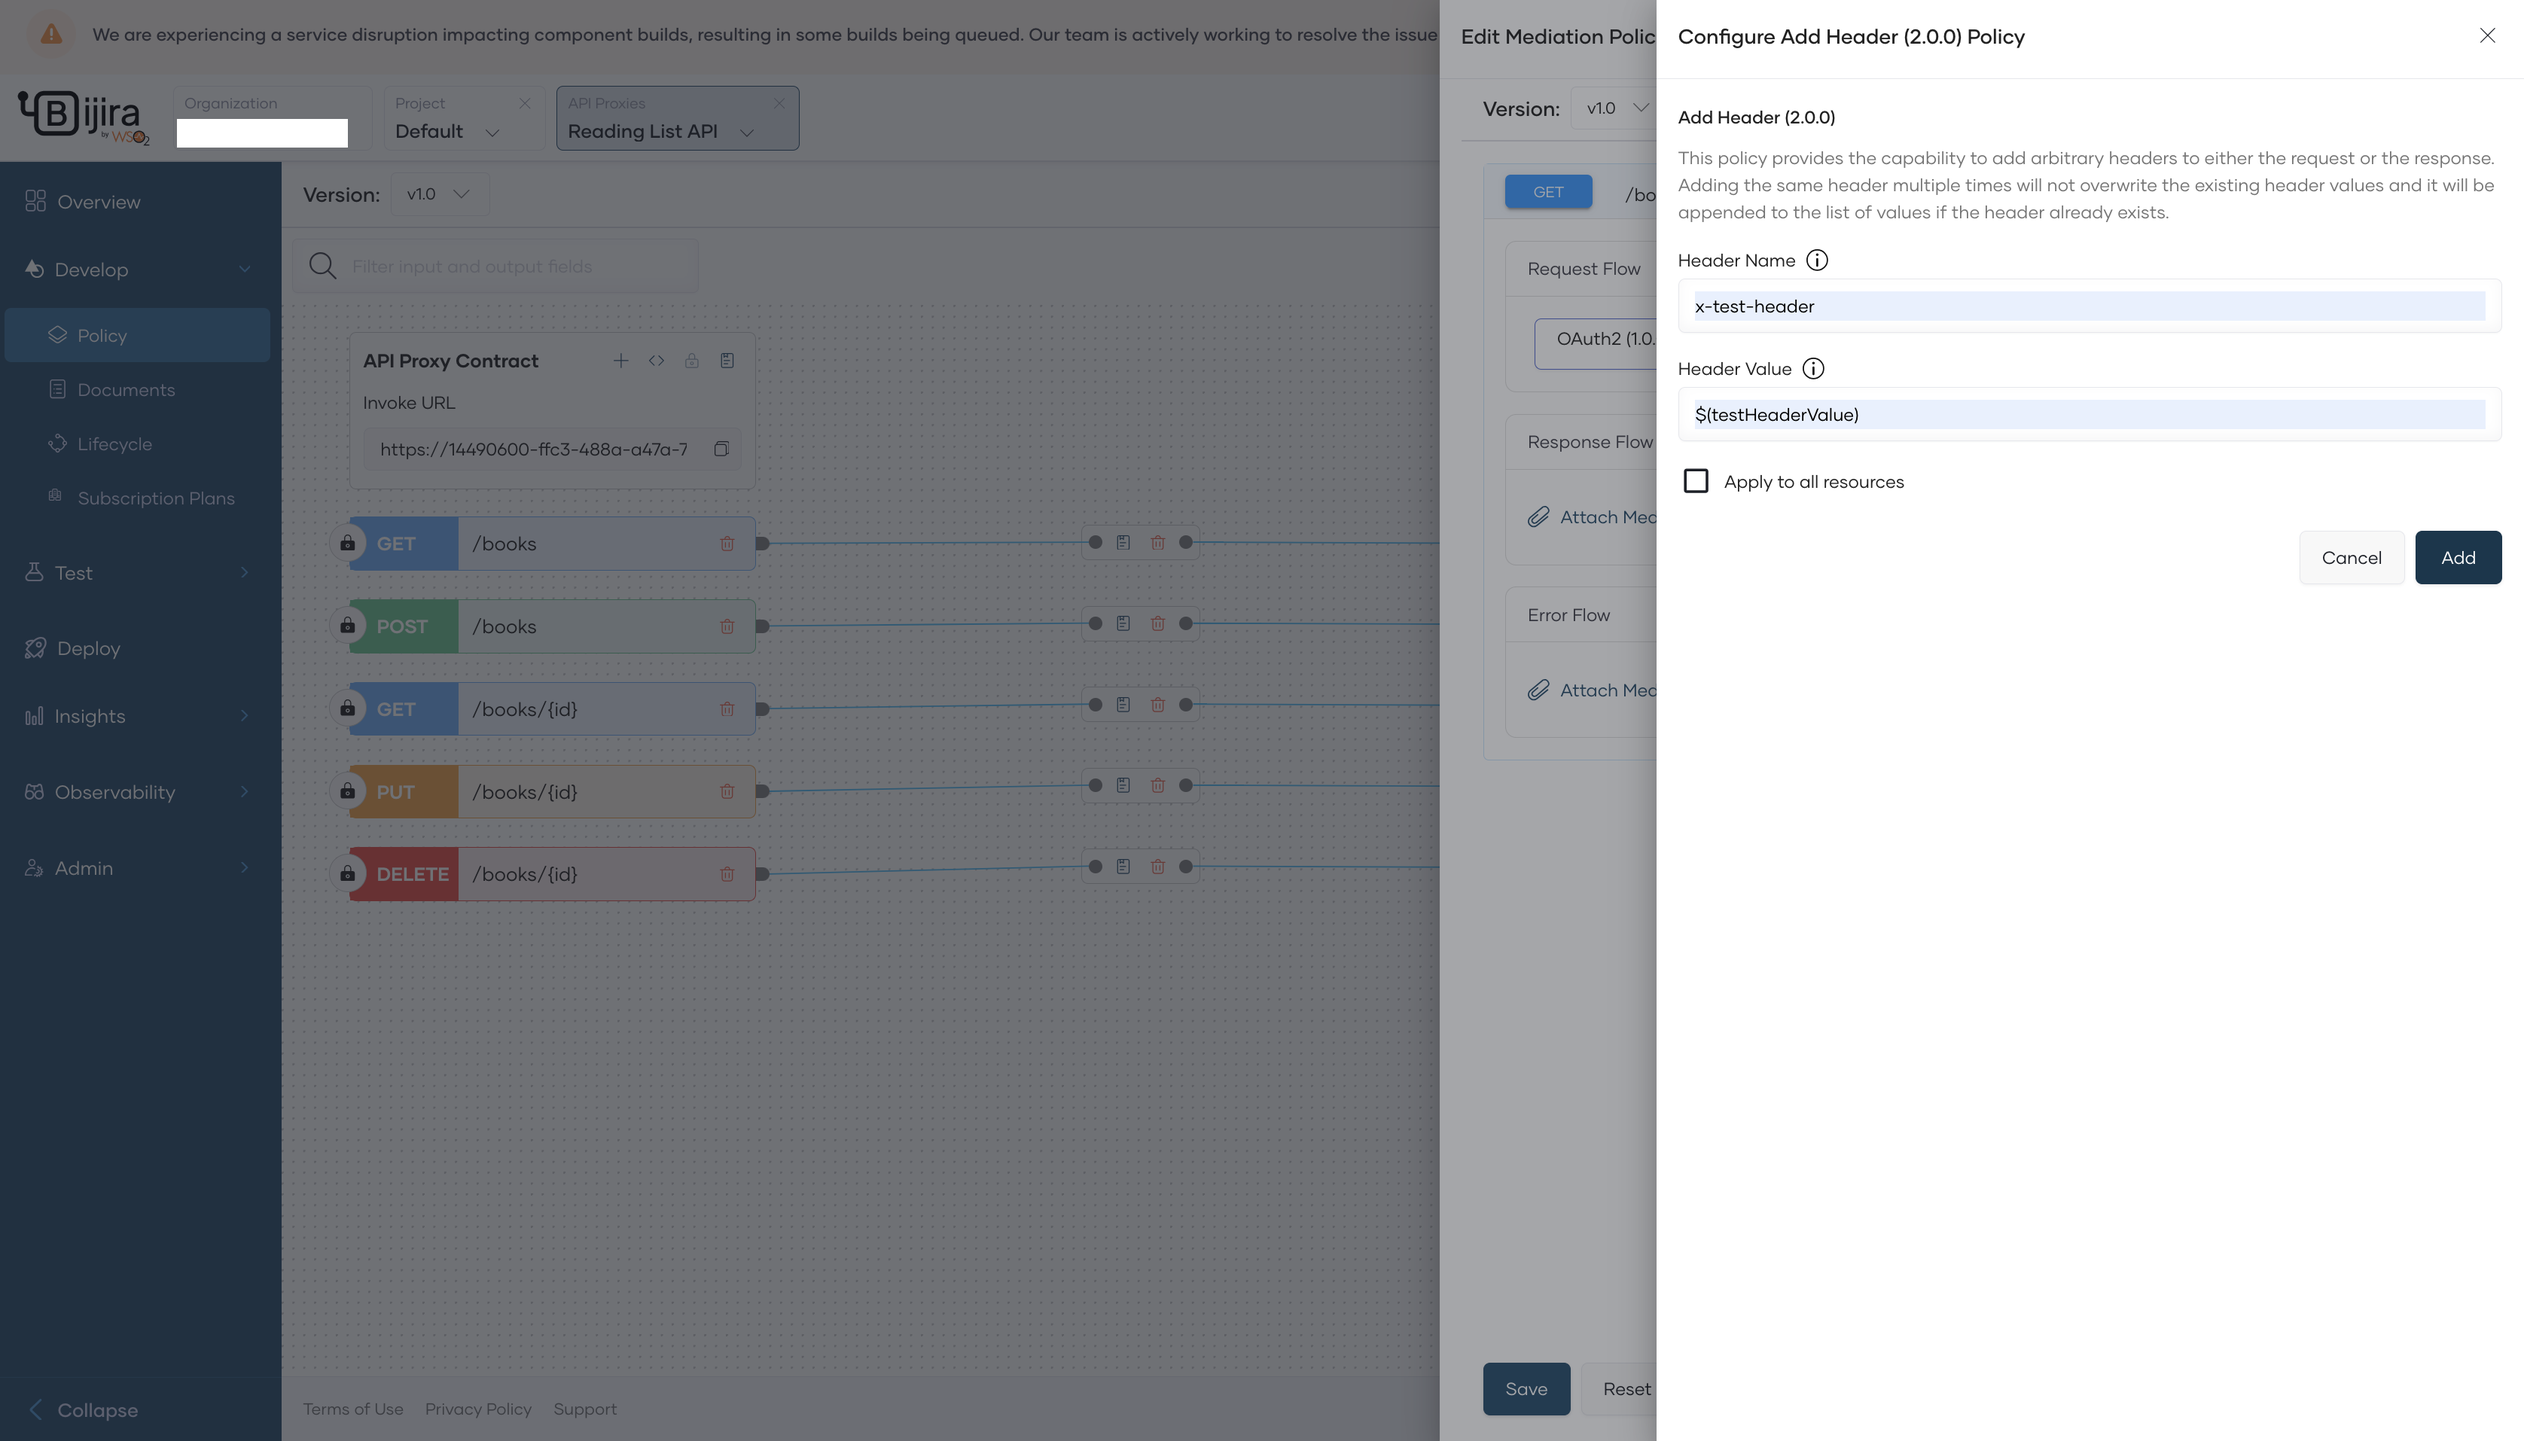
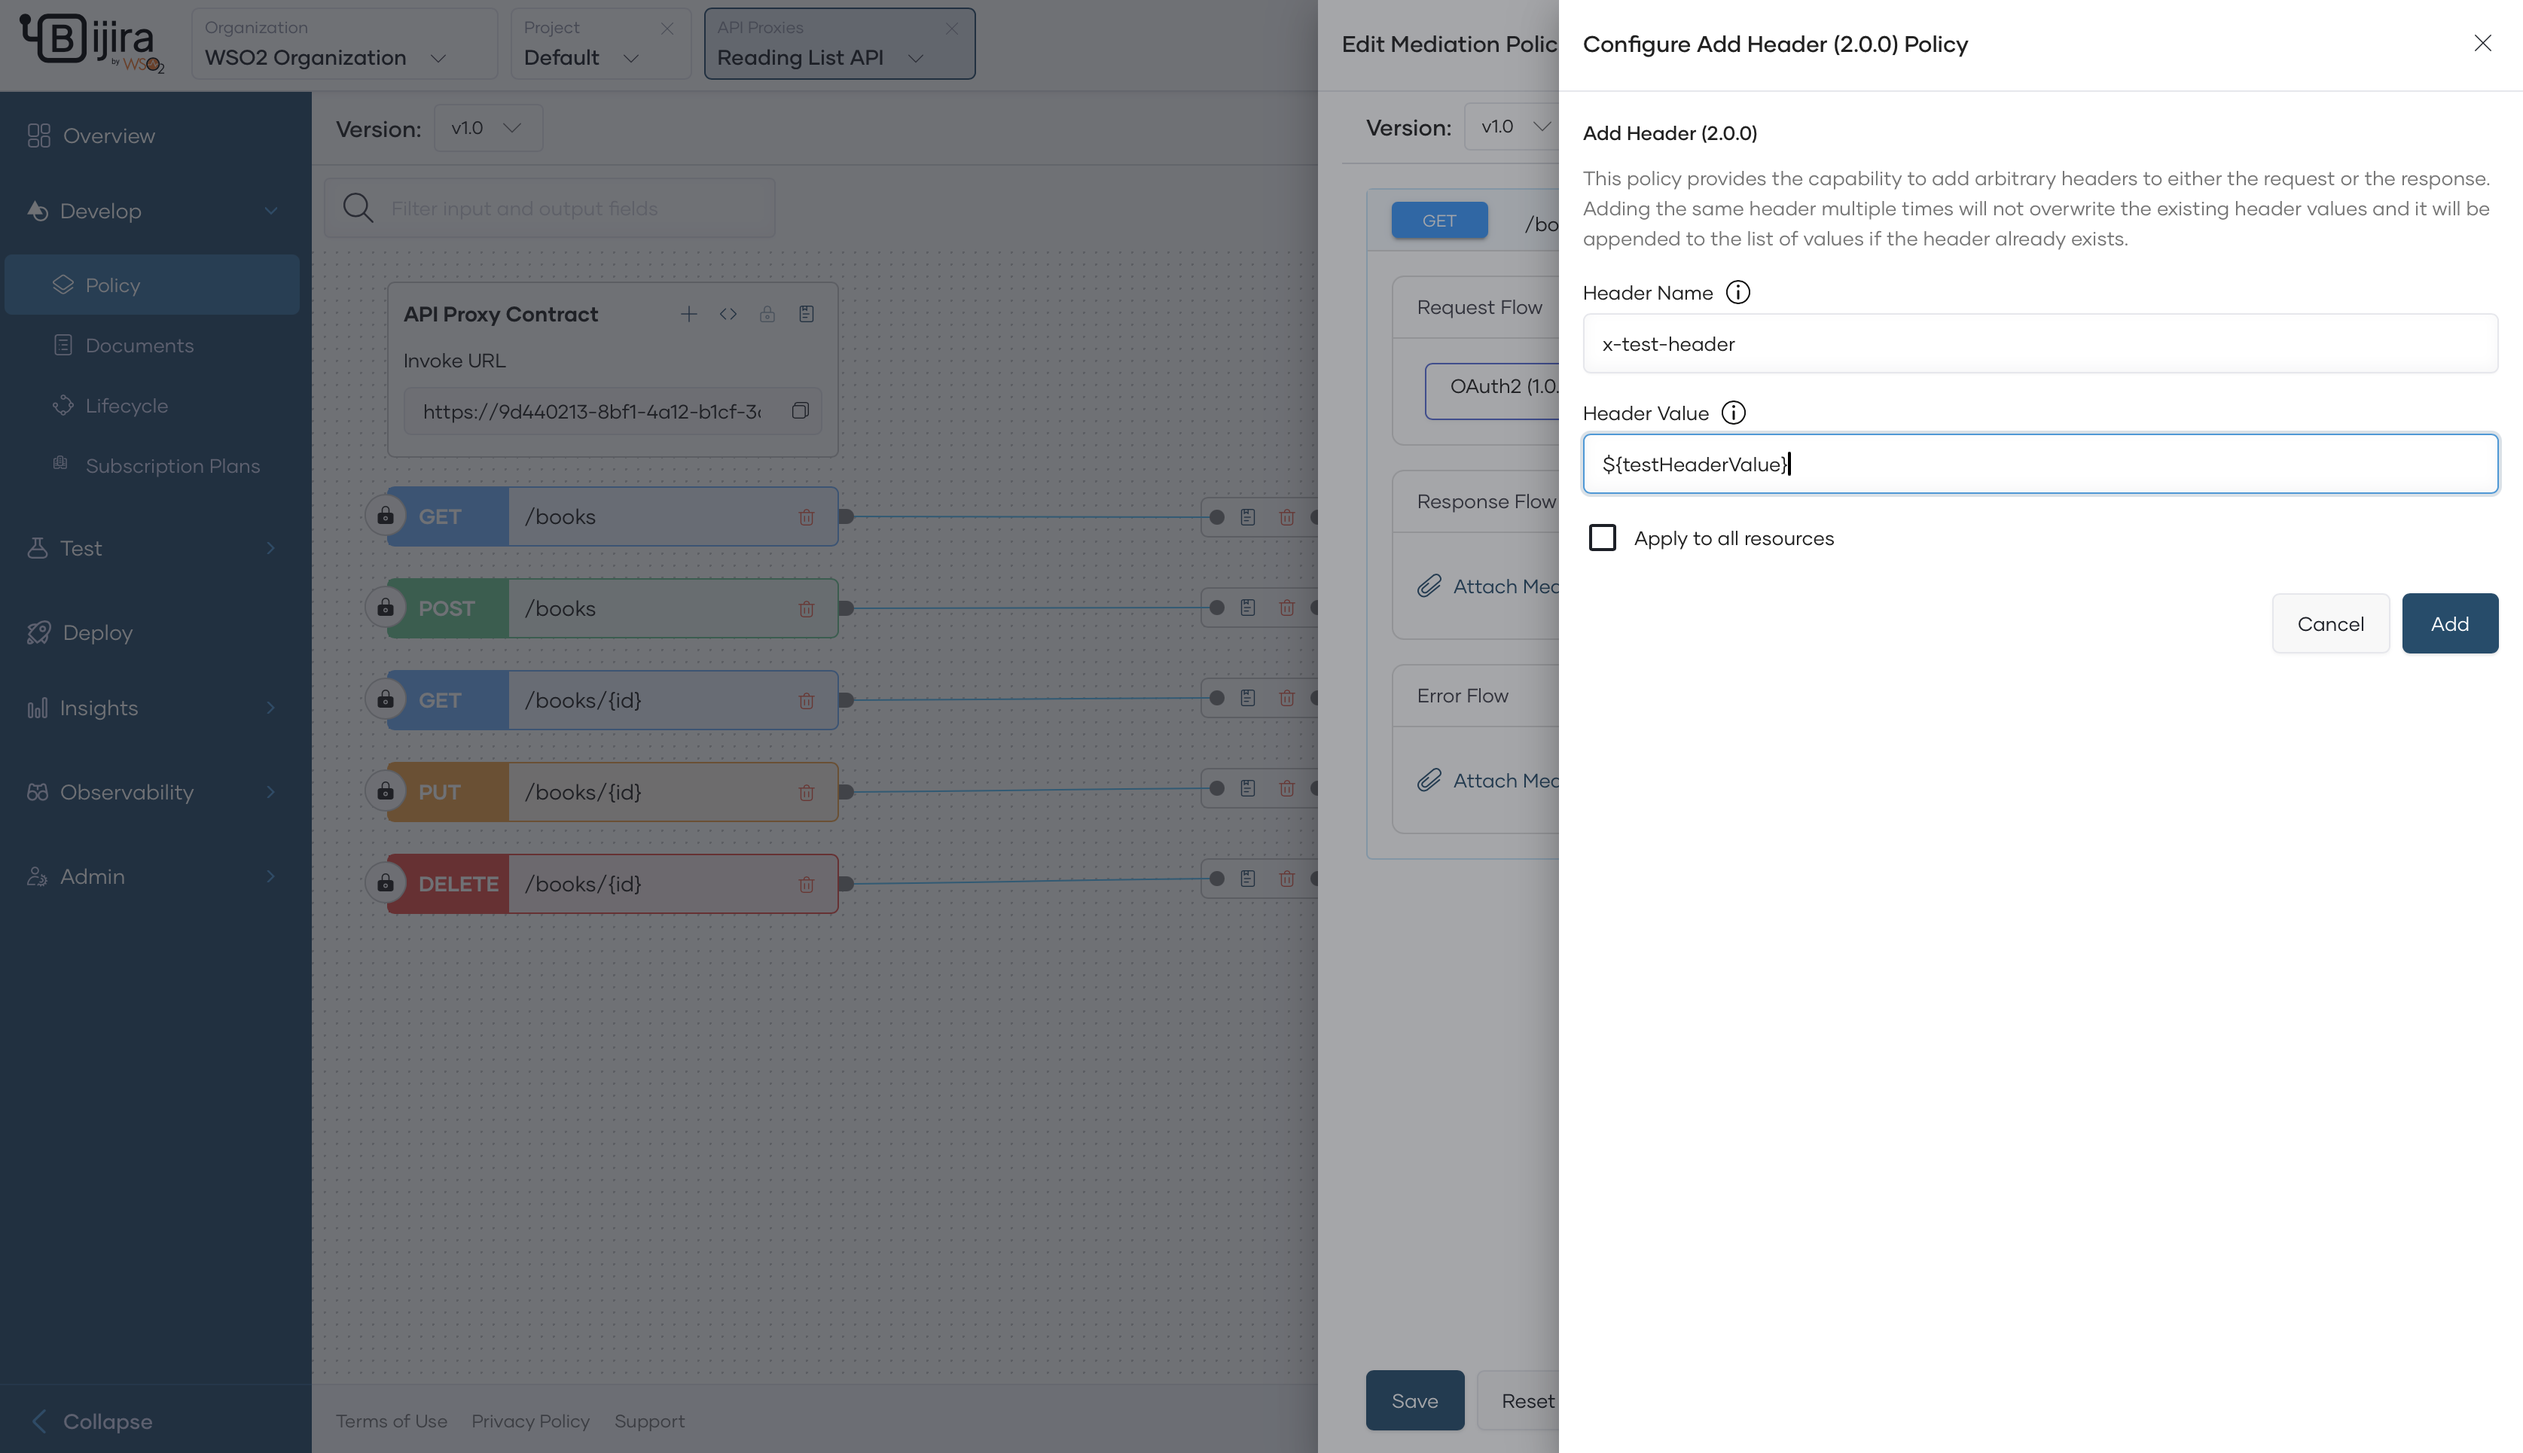
Update mediation policy images

diff --git a/en/docs/develop-api-proxy/policy/attach-and-manage-policies.md b/en/docs/develop-api-proxy/policy/attach-and-manage-policies.md
@@ -32,11 +32,9 @@ To attach a resource level policy to the `Request`, `Response`, or `Error` flow 
 4. From the list of resources, click the **Attach Policy Button** for the required policy. 
     ![Resource level policy button](../../assets/img/develop-api-proxy/policy/click-resource-level-policy-button.png)
 5. In the **Edit Mediation Policies** pane, click **Attach Mediation Policy** in the respective flow where you want to attach a policy.  
-<!-- TODO: Need to update these images with Bijira prod -->
     ![Edit mediation policies pane](../../assets/img/develop-api-proxy/policy/edit-mediation-policies-pane.png) 
 6. In the **Policy List** pane that opens, click on a policy to view its details.
 7. If the attached policy requires parameter configuration, on the policy pane enter the appropriate values and configure the parameters. To make a parameter a configurable variable, input the value in the `${<variableName>}` format. For example, you can use `${name}` as an example.
-<!-- TODO: Need to update these images with Bijira prod -->
     ![Configure policy](../../assets/img/develop-api-proxy/policy/configure-policy.png) 
 8. Click **Add** to attach the policy to the selected flow. Then, click **Save** to apply the configuration to the API resource.  
 
